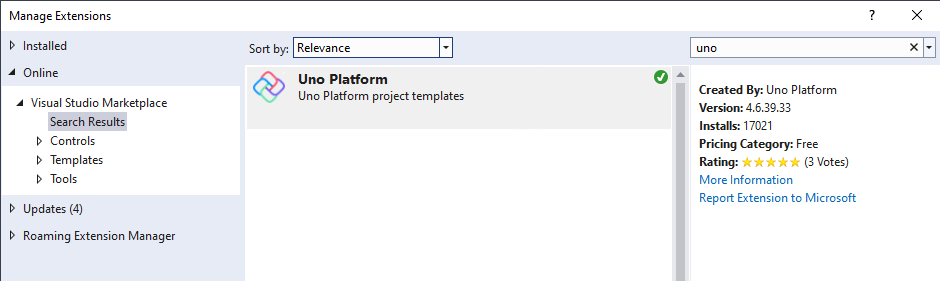
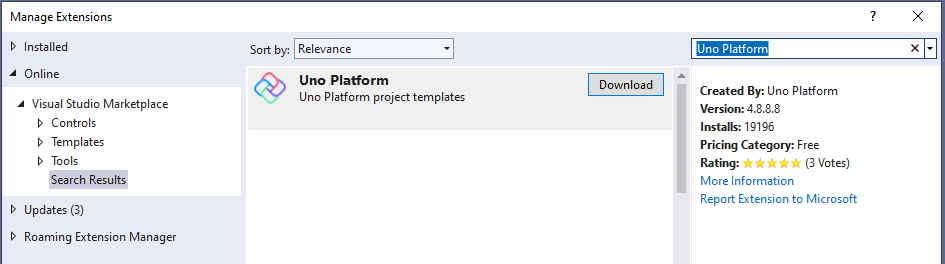
docs: update images to uno

Changed region(s): [[0.0, 0.0, 1.0, 1.0]]

diff --git a/hub/apps/how-tos/uno-multiplatform.md b/hub/apps/how-tos/uno-multiplatform.md
@@ -56,7 +56,7 @@ Launch Visual Studio 2022, then click `Continue without code`. Click `Extensions
 
 In the Extension Manager expand the **Online** node and search for `Uno`, install the `Uno Platform` extension or download it from the [Visual Studio Marketplace](https://marketplace.visualstudio.com/items?itemName=unoplatform.uno-platform-addin-2022), then restart Visual Studio.
 
-:::image type="content" source="images/hello-world/uno-extensions.PNG" alt-text="Manage Extensions window in Visual Studio with Uno Platform extension as a search result":::
+:::image type="content" source="images/hello-world/uno-extensions.png" alt-text="Manage Extensions window in Visual Studio with Uno Platform extension as a search result":::
 
 ## Create an application
 
@@ -66,7 +66,7 @@ Soon enough, you will be able to reap the benefits of this approach, as you can 
 
 Open Visual Studio and create a new project via `File` > `New` > `Project`:
 
-:::image type="content" source="images/hello-world/create-project.png" alt-text="Create a new project":::
+:::image type="content" source="images/hello-world/uno-create-project.png" alt-text="Create a new project":::
 
 Search for Uno and select the Uno Platform App project template:
 
